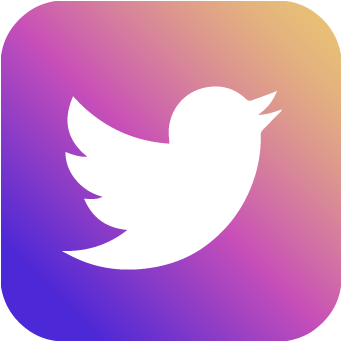
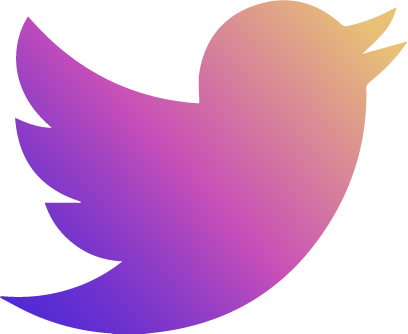
social media added

diff --git a/src/style/App.css b/src/style/App.css
@@ -70,7 +70,7 @@ a{
     background-repeat: no-repeat;
     height: 80vw;
     margin: auto;
-    margin: 0 0 10vw 0;
+    margin: 4vw 0 10vw 0;
 }
 .section-header{font-size: 10vw; margin-bottom: 5vw; padding: 0 5vw 0 5vw;}
 .section{
@@ -147,7 +147,8 @@ a{
     width: 100%;
 }
 .media-icon{
-    background-size: cover;
+    background-size: contain;
+    background-repeat: no-repeat;
     height: 10vw;
     width: 10vw;
     margin: 7vw;
@@ -158,8 +159,8 @@ a{
 .twitter{
     background-image: url("../images/twitter.png");
 }
-.facebook{
-    background-image: url("../images/facebook.png");
+.tiktok{
+    background-image: url("../images/tiktok.png");
 }
 .footer-logo{font-size: 8vw;}
 .footer-navbar{display: flex; flex-wrap: wrap; margin-top: 5vw;} 

diff --git a/src/components/MainPage.js b/src/components/MainPage.js
@@ -81,9 +81,9 @@ const MainPage = () => {
                     <Link className="footer-link" to="/main/contact">Contact us</Link>
             </div>
             <div className="social-media">
-                    <a className="media-icon twitter" href=""></a>
-                    <a className="media-icon instagram" href=""></a>
-                    <a className="media-icon facebook" href=""></a>
+                    <a className="media-icon twitter" href="https://twitter.com/nftiece1"></a>
+                    <a className="media-icon instagram" href="https://www.instagram.com/nftiece/"></a>
+                    <a className="media-icon tiktok" href="https://www.tiktok.com/@nftiece"></a>
             </div>
 
         </div>

diff --git a/src/style/OfferCard.css b/src/style/OfferCard.css
@@ -2,7 +2,7 @@
     width: 65vw;
     height: auto;
     padding: 7vw;
-    box-shadow: 0px 1px 35px rgba(255, 0, 242, 0.89);
+    box-shadow: 0px 1px 18px rgba(255, 0, 242, 0.89);
     margin: 0 auto;
     margin-top: 12vw;
     margin-bottom: 12vw;

diff --git a/src/style/FlowStyle.css b/src/style/FlowStyle.css
@@ -12,7 +12,7 @@
     cursor: pointer;
     transition: all 0.5s ease;
     transform: scale(1.1);
-    box-shadow: 0px 1px 35px rgba(255, 0, 242, 0.89);
+    box-shadow: 0px 1px 18px rgba(255, 0, 242, 0.89);
 }
 .image{
     background-size: cover;
